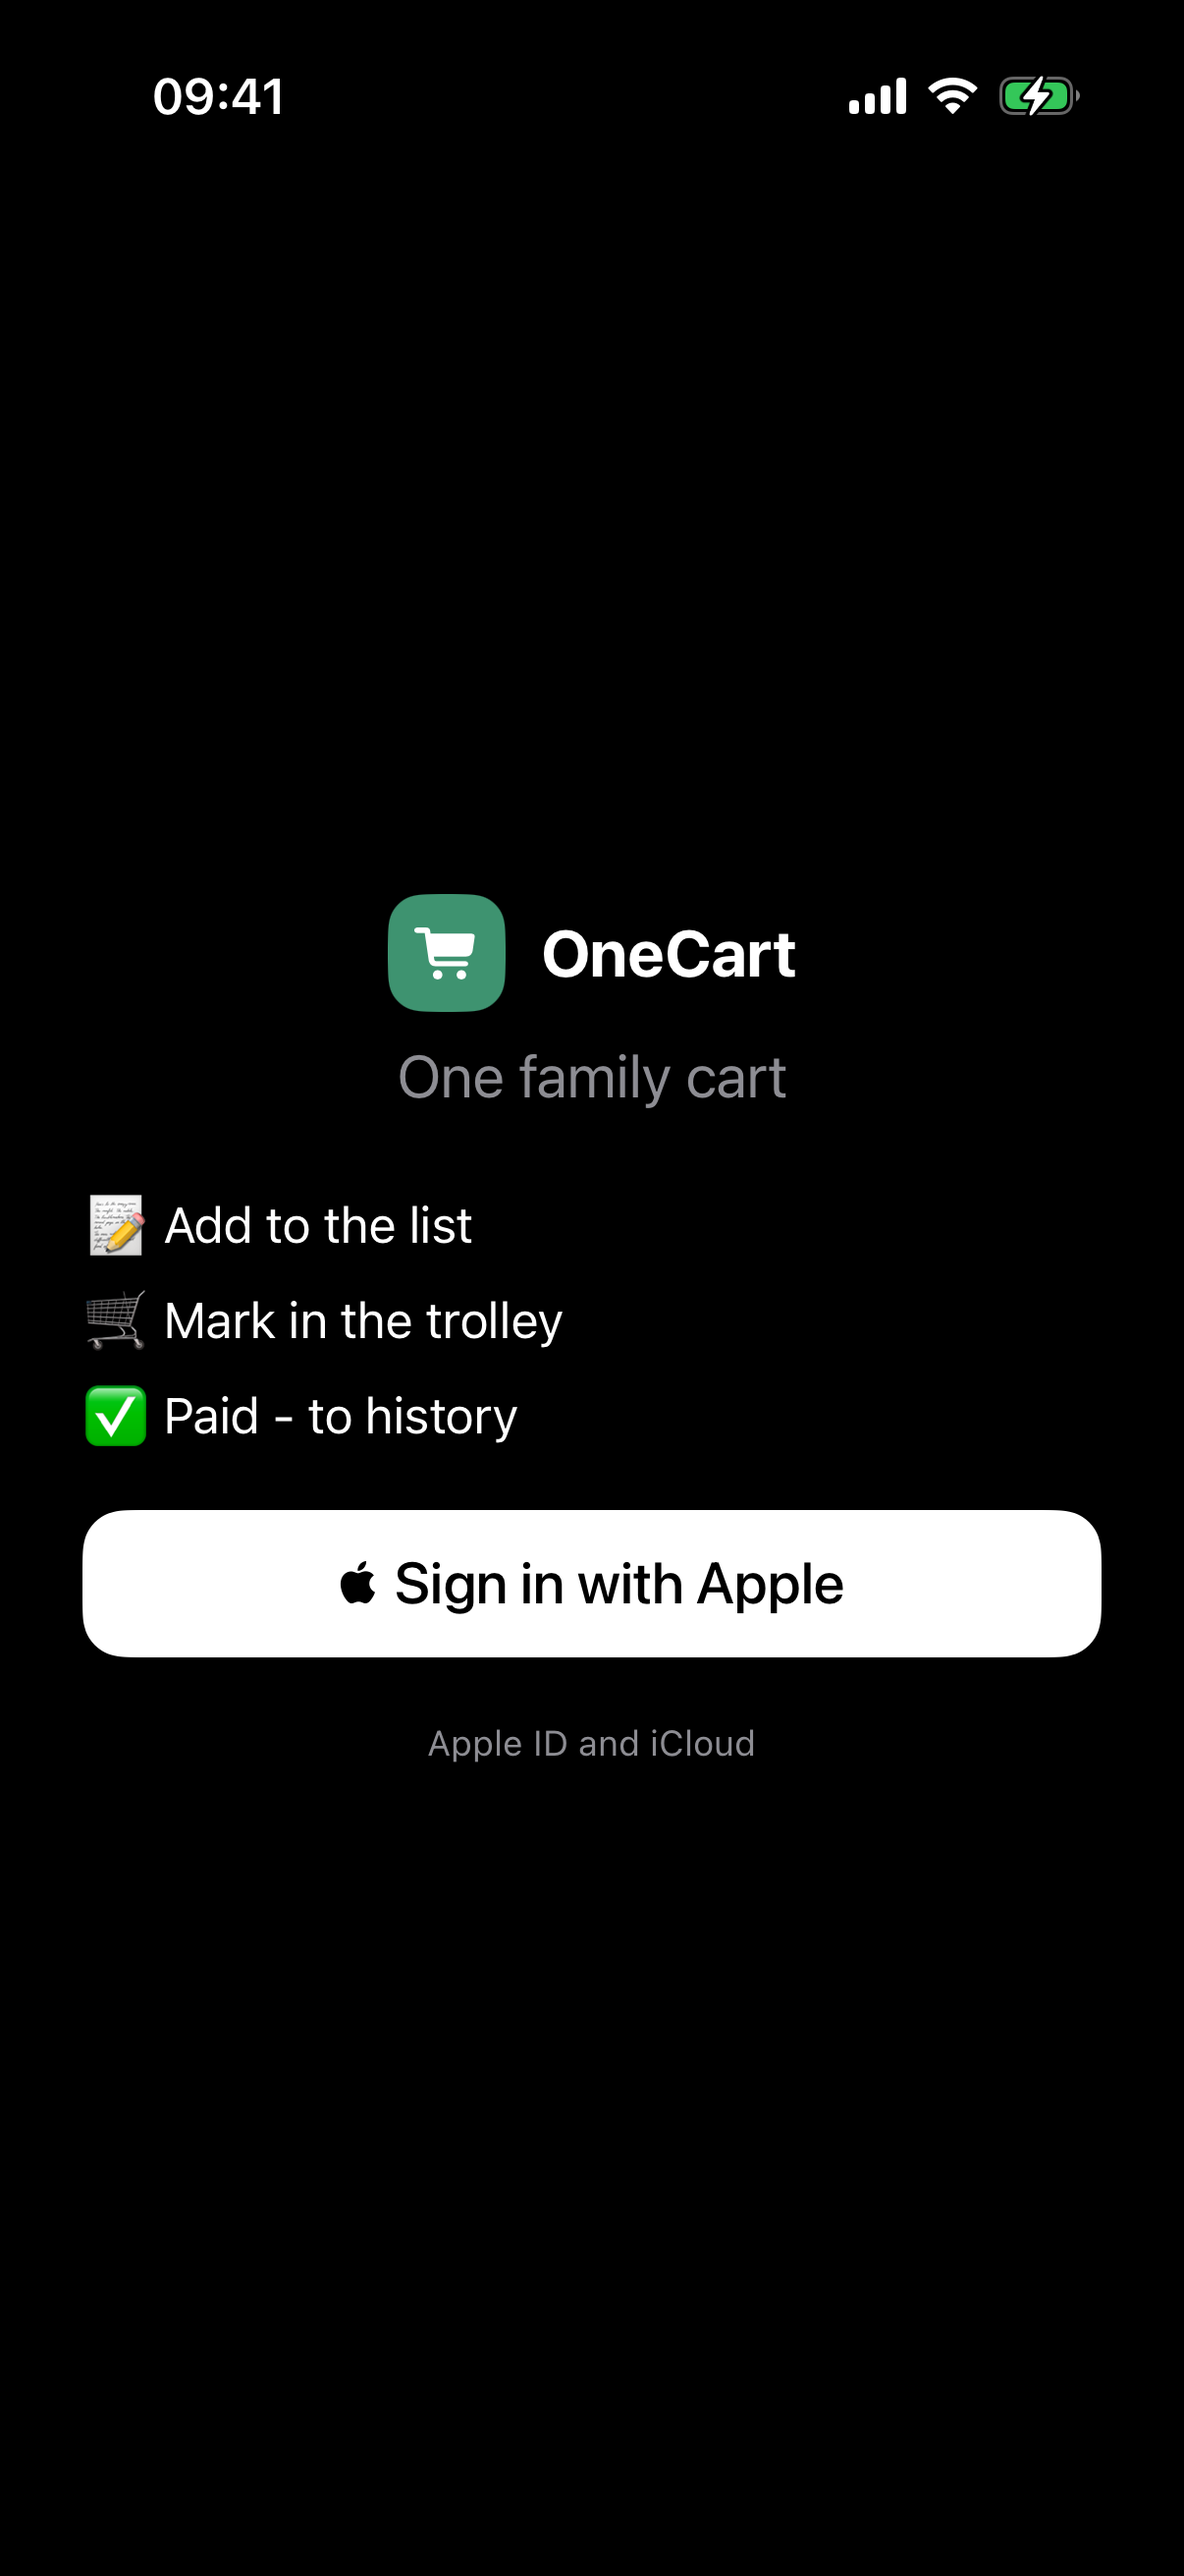
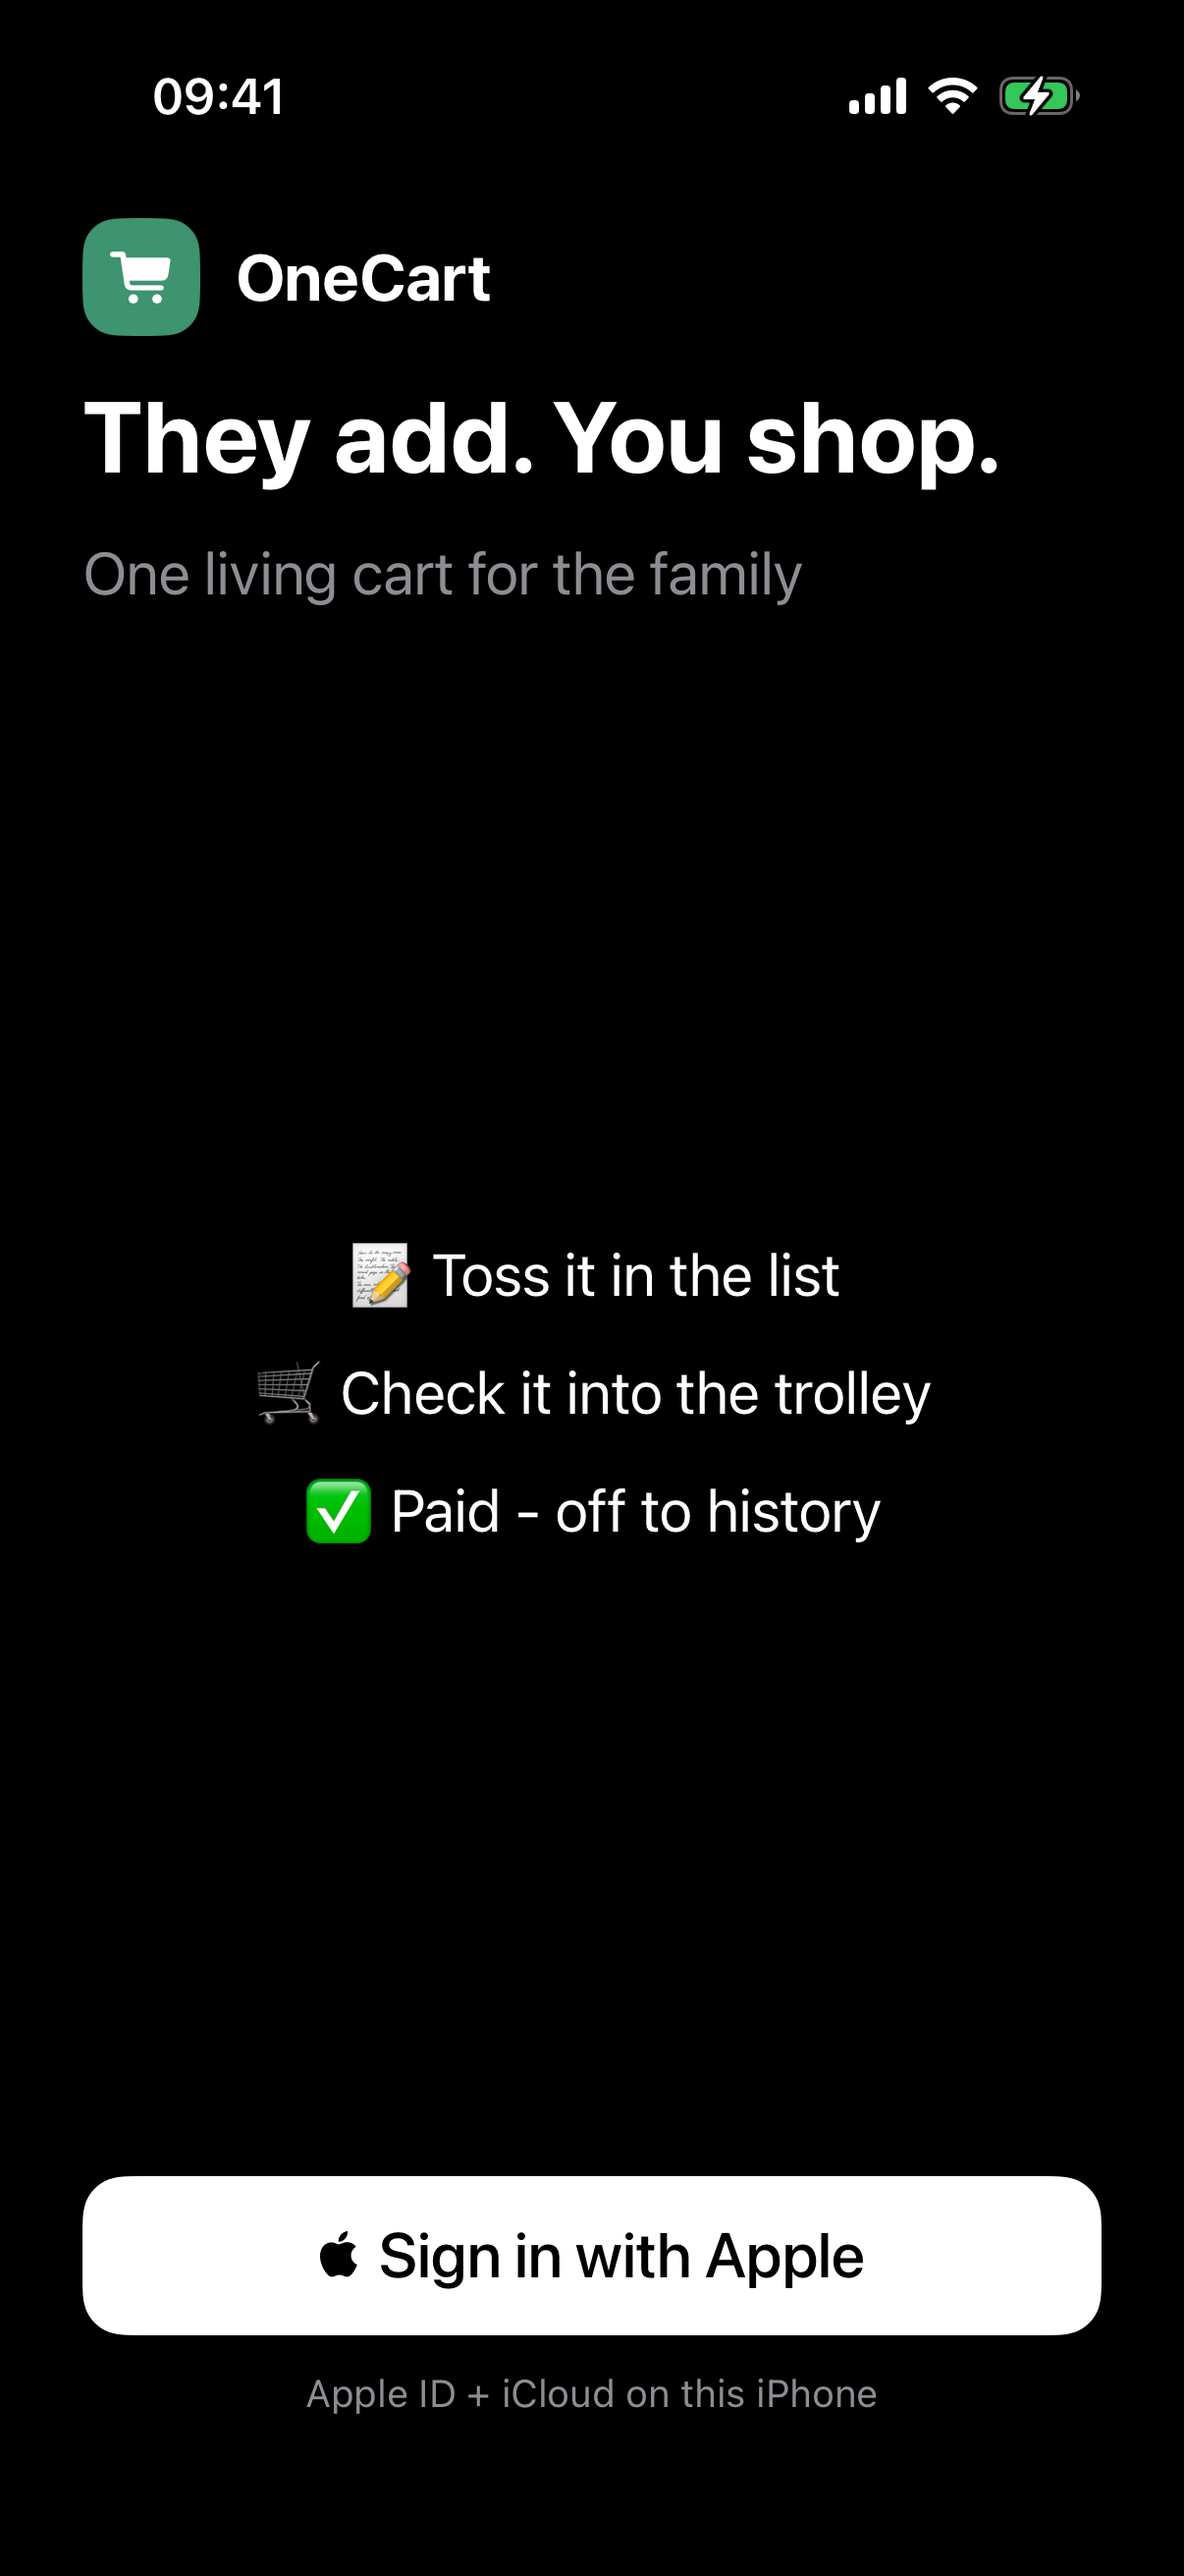
feat(onboarding): redesign Welcome for thumb-zone Sign in

diff --git a/OneCart/Features/Onboarding/WelcomeView.swift b/OneCart/Features/Onboarding/WelcomeView.swift
@@ -4,38 +4,75 @@ import SwiftUI
 struct WelcomeView: View {
     @EnvironmentObject private var model: AppModel
     @Environment(\.colorScheme) private var colorScheme
+    @Environment(\.accessibilityReduceMotion) private var reduceMotion
     @StateObject private var viewModel: WelcomeViewModel
+    @State private var contentVisible = false
 
     init(model: AppModel) {
         _viewModel = StateObject(wrappedValue: WelcomeViewModel(session: model))
     }
 
     var body: some View {
-        VStack(spacing: 28) {
-            Spacer()
+        VStack(spacing: 0) {
+            header
+                .padding(.top, 12)
 
-            VStack(spacing: 10) {
-                OneCartMark()
-                Text("welcome.subtitle")
-                    .font(.title3)
-                    .foregroundStyle(.secondary)
-                    .multilineTextAlignment(.center)
-            }
+            Spacer(minLength: 24)
 
-            content
+            middle
+                .opacity(contentVisible ? 1 : 0)
+                .offset(y: contentVisible || reduceMotion ? 0 : 14)
 
-            Spacer()
+            Spacer(minLength: 24)
+
+            bottom
         }
-        .padding(28)
+        .padding(.horizontal, 28)
+        .padding(.bottom, 12)
         .frame(maxWidth: .infinity, maxHeight: .infinity)
-        .background(OneCartPalette.background)
+        .background(OneCartPalette.background.ignoresSafeArea())
+        .onAppear {
+            guard !contentVisible else { return }
+            if reduceMotion {
+                contentVisible = true
+            } else {
+                withAnimation(.spring(response: 0.55, dampingFraction: 0.86).delay(0.08)) {
+                    contentVisible = true
+                }
+            }
+        }
+    }
+
+    private var header: some View {
+        VStack(alignment: .leading, spacing: 14) {
+            OneCartMark()
+
+            Text("welcome.title")
+                .font(.largeTitle.bold())
+                .foregroundStyle(.primary)
+                .fixedSize(horizontal: false, vertical: true)
+
+            Text("welcome.subtitle")
+                .font(.title3)
+                .foregroundStyle(.secondary)
+                .fixedSize(horizontal: false, vertical: true)
+        }
+        .frame(maxWidth: .infinity, alignment: .leading)
+        .opacity(contentVisible ? 1 : 0)
+        .offset(y: contentVisible || reduceMotion ? 0 : 10)
     }
 
     @ViewBuilder
-    private var content: some View {
+    private var middle: some View {
         switch model.welcomePhase {
         case .signIn:
-            signInContent
+            VStack(spacing: 16) {
+                OnboardingStepRow(textKey: "onboarding.step.list", delay: 0.05)
+                OnboardingStepRow(textKey: "onboarding.step.trolley", delay: 0.12)
+                OnboardingStepRow(textKey: "onboarding.step.paid", delay: 0.19)
+            }
+            .frame(maxWidth: .infinity)
+            .multilineTextAlignment(.center)
         case .connecting:
             connectingContent
         case let .failed(message):
@@ -43,31 +80,29 @@ struct WelcomeView: View {
         }
     }
 
-    private var signInContent: some View {
-        VStack(spacing: 22) {
-            VStack(alignment: .leading, spacing: 12) {
-                OnboardingStepRow(textKey: "onboarding.step.list")
-                OnboardingStepRow(textKey: "onboarding.step.trolley")
-                OnboardingStepRow(textKey: "onboarding.step.paid")
+    private var bottom: some View {
+        VStack(spacing: 12) {
+            if model.welcomePhase == .signIn {
+                AppleSignInAuthorizationButton(
+                    onRequest: { request in
+                        request.requestedScopes = [.fullName, .email]
+                    },
+                    onCompletion: { result in
+                        handleSignInResult(result)
+                    }
+                )
+                .id(colorScheme)
+                .frame(maxWidth: .infinity)
+                .frame(height: 54)
+                .accessibilityHint(Text("welcome.footer"))
+
+                Text("welcome.footer")
+                    .font(.footnote)
+                    .foregroundStyle(.secondary)
+                    .multilineTextAlignment(.center)
             }
-
-            AppleSignInAuthorizationButton(
-                onRequest: { request in
-                    request.requestedScopes = [.fullName, .email]
-                },
-                onCompletion: { result in
-                    handleSignInResult(result)
-                }
-            )
-            .id(colorScheme)
-            .frame(maxWidth: .infinity)
-            .frame(height: 50)
-
-            Text("welcome.footer")
-                .font(.caption)
-                .foregroundStyle(.secondary)
-                .multilineTextAlignment(.center)
         }
+        .padding(.bottom, 8)
     }
 
     private var connectingContent: some View {
@@ -79,7 +114,6 @@ struct WelcomeView: View {
                 .foregroundStyle(.secondary)
         }
         .frame(maxWidth: .infinity)
-        .padding(.vertical, 8)
     }
 
     private func failedContent(message: String) -> some View {
@@ -113,12 +147,27 @@ struct WelcomeView: View {
 }
 
 private struct OnboardingStepRow: View {
+    @Environment(\.accessibilityReduceMotion) private var reduceMotion
     let textKey: LocalizedStringKey
+    let delay: Double
+    @State private var visible = false
 
     var body: some View {
         Text(textKey)
-            .font(.body)
-            .frame(maxWidth: .infinity, alignment: .leading)
+            .font(.title3)
+            .foregroundStyle(.primary)
+            .opacity(visible ? 1 : 0)
+            .offset(y: visible || reduceMotion ? 0 : 8)
+            .onAppear {
+                guard !visible else { return }
+                if reduceMotion {
+                    visible = true
+                } else {
+                    withAnimation(.spring(response: 0.5, dampingFraction: 0.88).delay(delay)) {
+                        visible = true
+                    }
+                }
+            }
     }
 }
 
